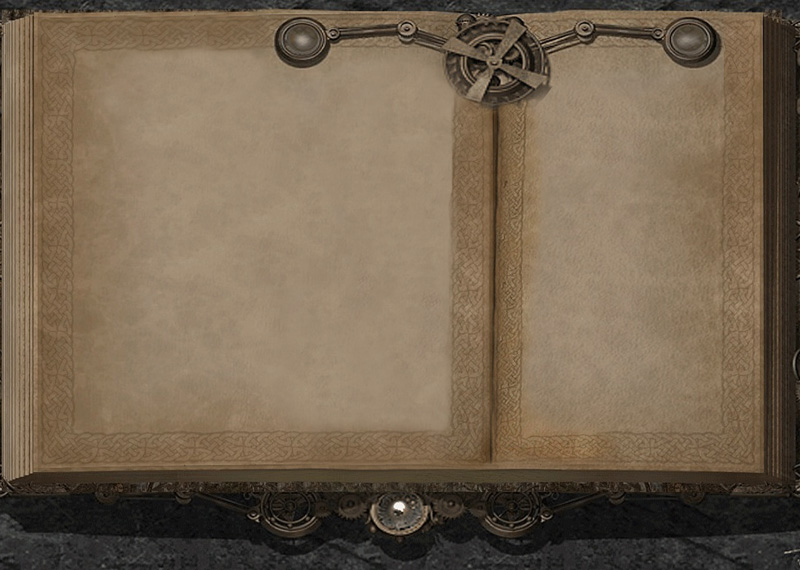
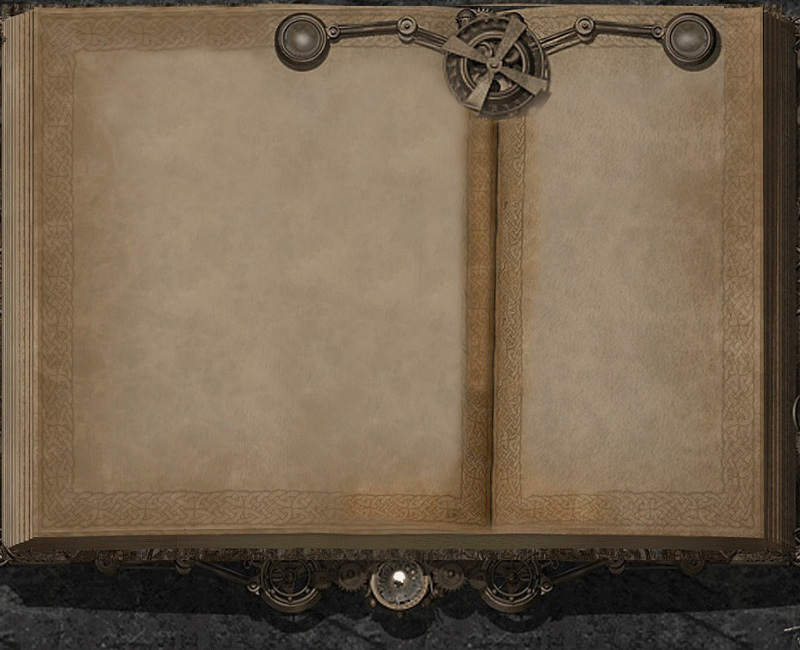
Get more space for boards

diff --git a/engine/lib/output.php b/engine/lib/output.php
@@ -222,7 +222,7 @@
 			if($theme_info['author'] == "X7 Group")
 				$theme_c = "";
 			else
-				$theme_c = "<Br>Theme by $theme_info[author], ".$theme_info['copyright'];
+				$theme_c = "Theme by $theme_info[author], ".$theme_info['copyright'];
 			
 			//**************************************************************//
 			//	This is my copyright.  I ask you very kindly not to			//
@@ -232,7 +232,7 @@
 			//	from it.  So if you don't want to pay for it the least you 	//
 			//	can do is give me one line of credit.						//
 			//**************************************************************//
-			$this->add("<!----><div align=\"center\" style=\"visibility: visible;\">
+			$this->add("<!----><div id=\"dump_copyright\" align=\"center\" style=\"visibility: visible; background: transparent;\">
 			Game engine by: Niccol&ograve; Cascarano - Graphic by: Federico Gori<br>
 			Powered By <a href=\"http://www.x7chat.com/\" target=\"_blank\">X7 Chat</a> $X7CHATVERSION &copy; 2004 By The <a href=\"http://www.x7chat.com/\" target=\"_blank\">X7 Group</a>$theme_c<br></div>");
 			//**************************************************************//

diff --git a/engine/lib/ssgen.php b/engine/lib/ssgen.php
@@ -145,13 +145,18 @@
 			#board_wrapper{
 				background-image:url(./graphic/sfondobacheca.jpg);
 				width: 800px; 
-				height: 571px;
+				height: 620px;
 				position:relative;
 				margin: 0 auto;
 				color: black;
 			}
+			#dump_copyright {
+				position: absolute;
+				bottom: 0px;
+				width: 100%
+			}
 			.board_cell{
-				border-bottom: 2px solid white;
+				border-bottom: 1px solid white;
 				text-align: center;
 				padding: 5px;
 			}
@@ -168,11 +173,11 @@
 			}
 			#board_index{
 				position: absolute;
-				width: 26%;
+				width: 28%;
 				float: right;
-				right: 65px;
+				right: 50px;
 				top: 60px;
-				height: 400px;
+				height: 455px;
 				text-align: center;
 				font-family: $data[FontFamily];
 				font-size: $data[FontSize1];
@@ -184,7 +189,7 @@
 				top: 60px;
 				left: 40px;
 				width: 420px;
-				height: 390px;
+				height: 450px;
 				font-family: $data[FontFamily];
 				font-size: $data[FontSize1];
 				text-align: center;
